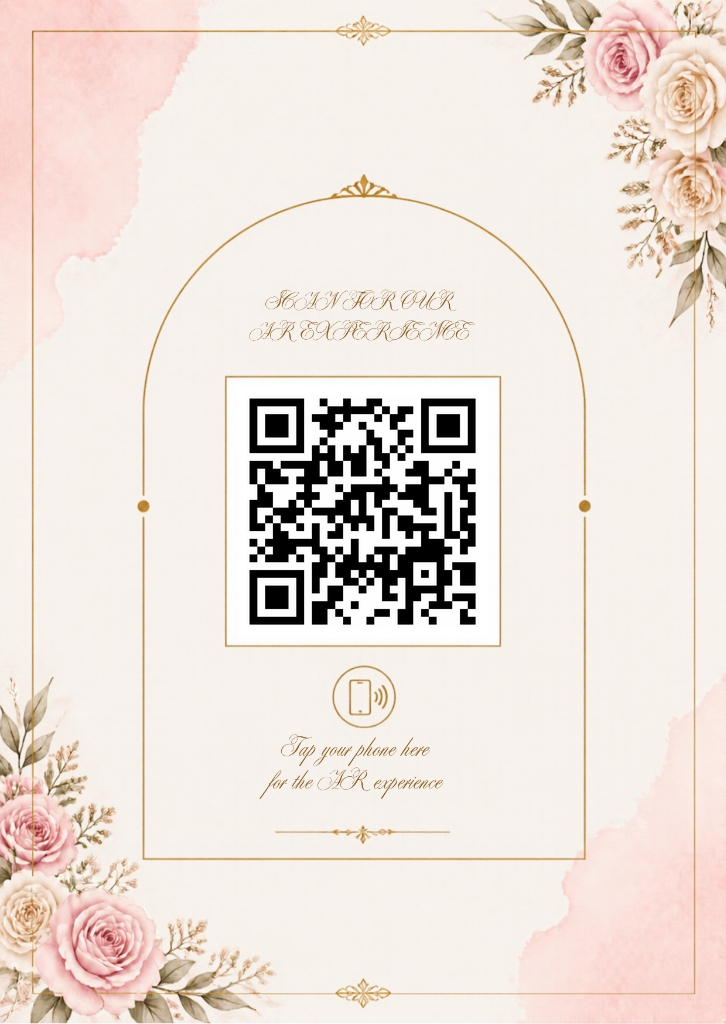
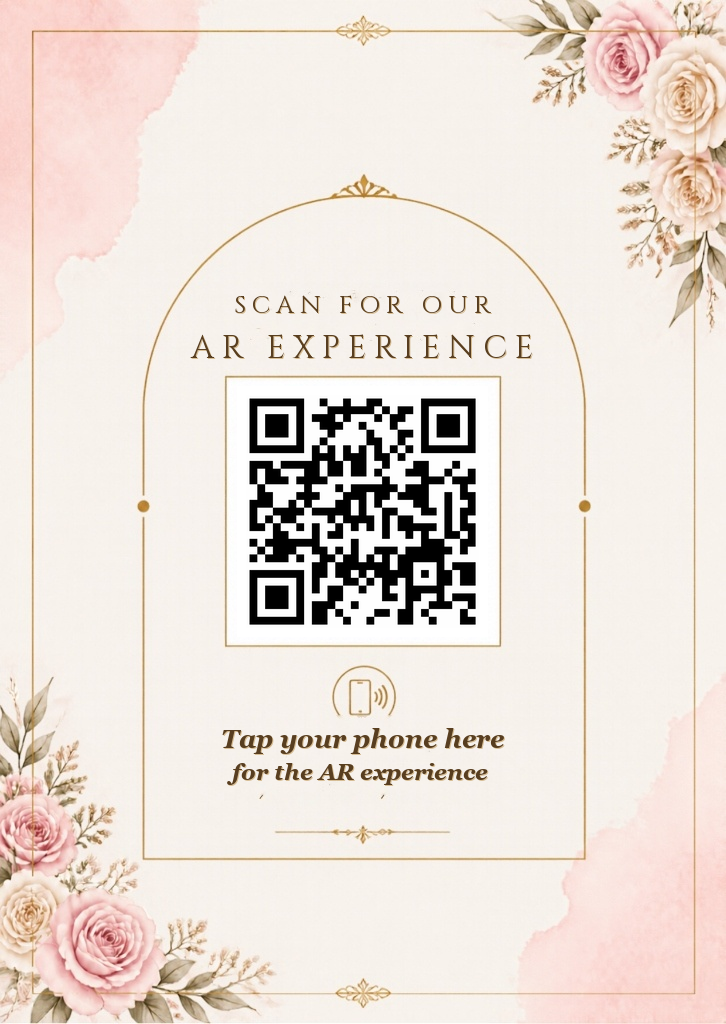
Enhance card back typography with high-contrast, ultra-visible Cinzel and Georgia fonts

Changed region(s): [[0.303, 0.6875, 0.697, 0.7812], [0.3333, 0.2812, 0.7273, 0.375], [0.2727, 0.3125, 0.3333, 0.3438]]

diff --git a/render_high_visibility_card_back.py b/render_high_visibility_card_back.py
@@ -1,0 +1,80 @@
+import cv2
+import numpy as np
+from PIL import Image, ImageDraw, ImageFont
+
+def render_high_visibility_back():
+    print("Rendering high-visibility card back with luxury wedding typography...")
+    
+    # 1. Load cleaned background
+    card = Image.open('output/cleaned_card_back.jpg').convert('RGB')
+    cw, ch = card.size # 726 x 1024
+    draw = ImageDraw.Draw(card)
+    
+    # 2. Typography fonts
+    font_cinzel_path = 'output/Cinzel.ttf'
+    try:
+        font_top_l1 = ImageFont.truetype(font_cinzel_path, 25)
+        font_top_l2 = ImageFont.truetype(font_cinzel_path, 32)
+    except:
+        font_top_l1 = ImageFont.truetype('georgiab.ttf', 24)
+        font_top_l2 = ImageFont.truetype('georgiab.ttf', 30)
+        
+    font_bot_l1 = ImageFont.truetype('georgiaz.ttf', 26)
+    font_bot_l2 = ImageFont.truetype('georgiaz.ttf', 23)
+    
+    # Colors: Luxury deep bronze/gold that provides 100% legibility on cream
+    text_color = (88, 62, 32)      # Deep royal bronze-gold #583E20
+    shadow_color = (215, 190, 150) # Subtle champagne glow #D7BE96
+    
+    def draw_centered_text(y, text, font, tracking=2):
+        # Apply tracking / letter spacing
+        spaced_text = " ".join(list(text)) if tracking > 0 else text
+        bbox = draw.textbbox((0, 0), spaced_text, font=font)
+        tw = bbox[2] - bbox[0]
+        tx = (cw - tw) // 2
+        
+        # Draw soft shadow / glow
+        draw.text((tx + 1, y + 1), spaced_text, font=font, fill=shadow_color)
+        # Draw main crisp text
+        draw.text((tx, y), spaced_text, font=font, fill=text_color)
+        return y + (bbox[3] - bbox[1])
+    
+    # 3. Top Text (Above QR Code: Y = 285..360)
+    # Line 1: SCAN FOR OUR
+    # Line 2: AR EXPERIENCE
+    draw_centered_text(288, "SCAN FOR OUR", font_top_l1, tracking=2)
+    draw_centered_text(326, "AR EXPERIENCE", font_top_l2, tracking=2)
+    
+    # 4. Insert Exact MyWebAR QR Code in White Box (X: 227..499, Y: 378..645)
+    qr_img = Image.open('C:/Users/vanda/.gemini/antigravity/brain/3133c024-35e5-486e-ba77-581008b91f2d/.user_uploaded/media_1794867437895_b5e76bfd.png').convert('RGB')
+    box_x, box_y, box_w, box_h = 227, 378, 272, 267
+    target_qr_size = min(box_w, box_h) - 16 # ~251px
+    qr_resized = qr_img.resize((target_qr_size, target_qr_size), Image.Resampling.LANCZOS)
+    
+    paste_x = box_x + (box_w - target_qr_size) // 2
+    paste_y = box_y + (box_h - target_qr_size) // 2
+    card.paste(qr_resized, (paste_x, paste_y))
+    
+    # 5. Bottom Text (Below Phone Icon: Y = 718..780)
+    # Line 1: Tap your phone here
+    # Line 2: for the AR experience
+    def draw_centered_bottom(y, text, font):
+        bbox = draw.textbbox((0, 0), text, font=font)
+        tw = bbox[2] - bbox[0]
+        tx = (cw - tw) // 2
+        draw.text((tx + 1, y + 1), text, font=font, fill=shadow_color)
+        draw.text((tx, y), text, font=font, fill=text_color)
+        return y + (bbox[3] - bbox[1])
+        
+    draw_centered_bottom(724, "Tap your phone here", font_bot_l1)
+    draw_centered_bottom(758, "for the AR experience", font_bot_l2)
+    
+    # 6. Save final production file
+    out_path = 'output/vandan_riddhi_card_back_with_qr.png'
+    card.save(out_path, format='PNG', quality=100)
+    preview_path = 'output/card_back_high_visibility_preview.jpg'
+    card.save(preview_path, format='JPEG', quality=95)
+    print(f"High-visibility card back saved to {out_path} and {preview_path}!")
+
+if __name__ == '__main__':
+    render_high_visibility_back()
